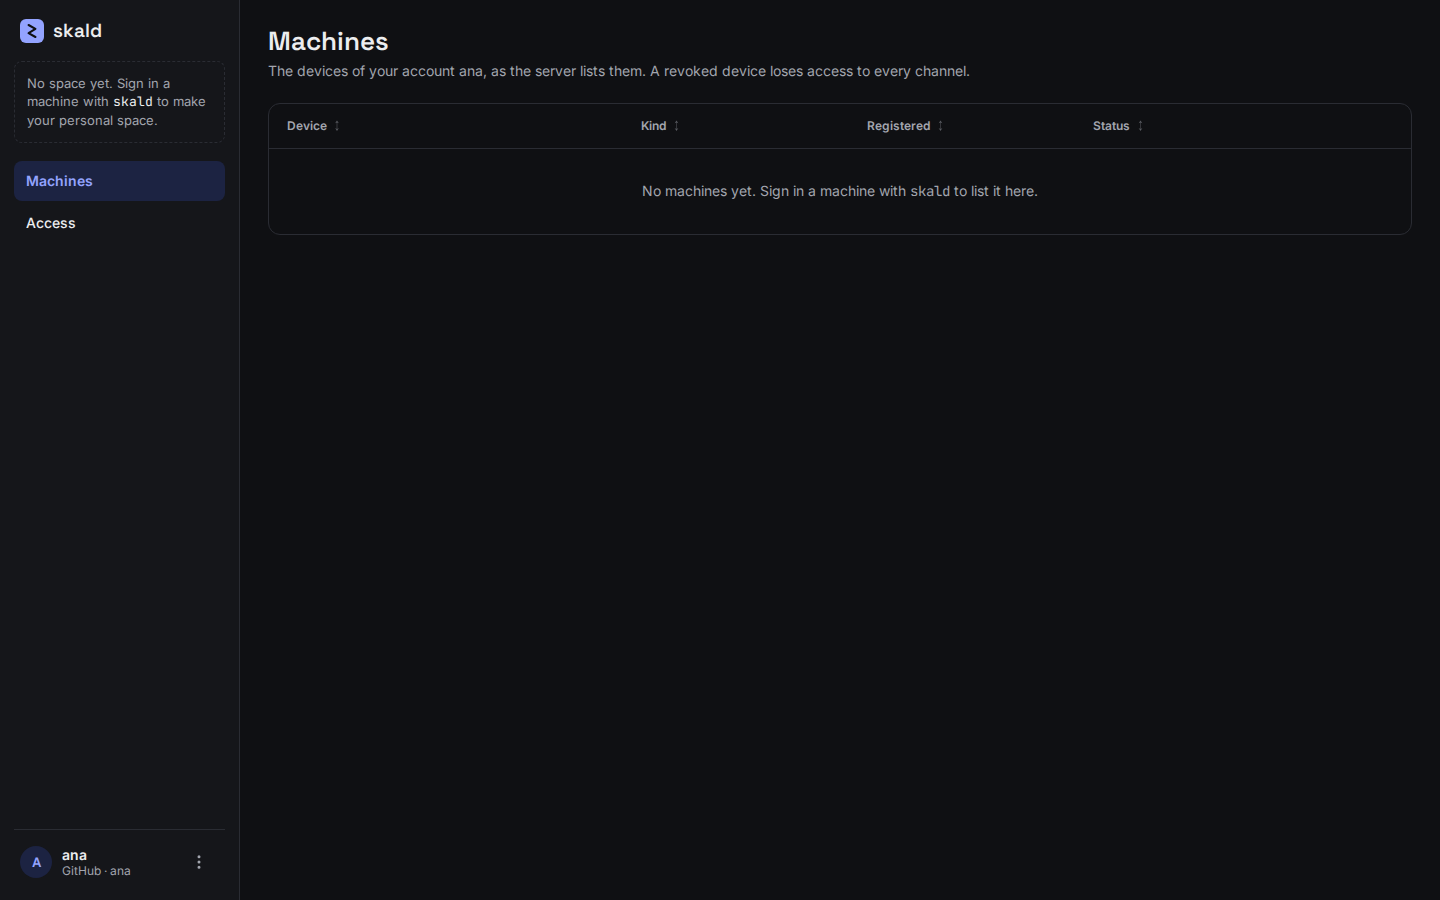
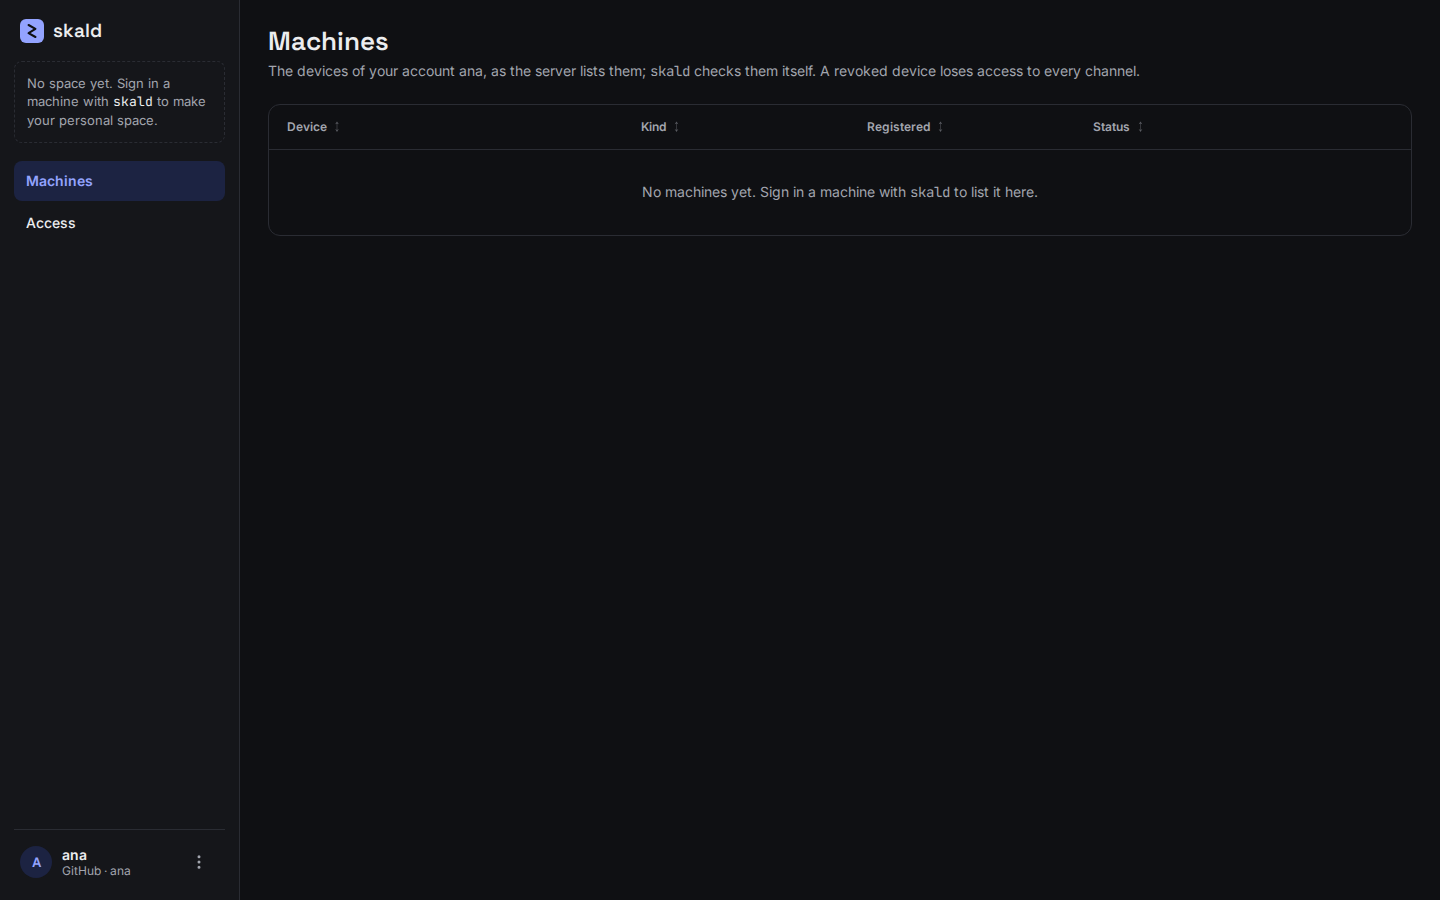
fix(web): say on Machines that skald checks the devices itself
Claude-Session: https://claude.ai/code/session_01Jk16b9bCrPMiGtRhYvQoAm

diff --git a/web/src/app/Machines.tsx b/web/src/app/Machines.tsx
@@ -107,7 +107,13 @@ export function MachinesScreen({
     <>
       <PageHeader
         title="Machines"
-        subtitle={`The devices of your account ${username}, as the server lists them. A revoked device loses access to every channel.`}
+        subtitle={
+          <>
+            The devices of your account {username}, as the server lists them;{" "}
+            <code>skald</code> checks them itself. A revoked device loses access
+            to every channel.
+          </>
+        }
       />
       {failed && <Banner>{failed}</Banner>}
       <Table
